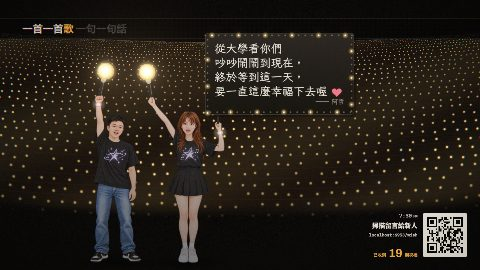
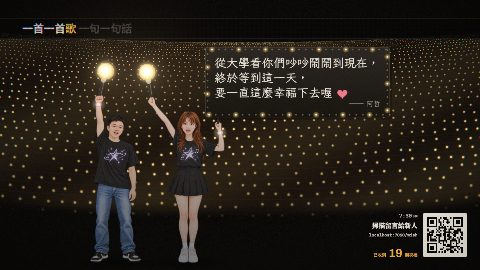
大螢幕：搖滾區觀眾剪影預先畫好（9 ms → 3 ms）；手燈海應援板不再被 LED 帶蓋住；手機燈海的手環光不擋留言

diff --git a/frontend/src/wall/scenes/concert.ts b/frontend/src/wall/scenes/concert.ts
@@ -9,7 +9,7 @@
 //  - 開場：燈還沒亮，兩人只是剪影；第一拍舞台燈亮起、光束掃過來，兩人被照亮；下一拍布條從上緣往下攤開，留言一個字一個字寫上去。
 //  - 布條照「留言尺寸與版面比例標準 v2」：字 40～60、布條最大 700 × 330，寬高跟著留言（兩個人站的距離跟著布條的寬）。沒有留言時寫邀請。
 //  - 其他觀眾是剪影（鏡頭在眼睛的高度：遠近的人頭都在同一條線上，遠的小），舉起來的手燈跟兩人的一起變色、手機亮白光；
-//    每一拍一起點頭，跳的時候一起跳。
+//    每一拍一起點頭、手往另一邊甩，跳的時候一起跳。觀眾在 init 一次畫成貼圖（遠近兩群 × 兩種手勢），每格只貼上去（效能：一格從 8 ms 降到 4 ms 多）。
 //  - 鏡頭：整個窗格慢慢推近兩個人，大鼓時輕輕一頓。右下角 HUD 只有暗暗的地板。
 import * as THREE from 'three';
 import { Scene, shared, type Frame, type Msg, type PostOverrides, type PlateSpecDecl } from '../engine/scene';
@@ -21,7 +21,7 @@ import { lyricAt, layoutLyric, drawLyric, barAfter, beatAfter, msgChars, type Ly
 import { drawNote, type Note } from './_couple';
 import { loadPuppets, hasPuppet, drawCycle, puppetPoint, puppetShadow, puppetLight, jumpArc, breathe, beatKick, noteV2, tightenNote, type PuppetOpts } from './_puppet';
 import { lyricV2 } from './_v2';
-import { glow, lightStick, phoneBack, makeCrowd, drawCrowd, cloth, star, toward, type Fan, type Pt } from './_c9';
+import { glow, lightStick, phoneBack, makeCrowd, bakeCrowd, drawBakedCrowd, cloth, star, toward, type CrowdBake, type Pt } from './_c9';
 
 export const spec: PlateSpecDecl = { group: 'couple', family: 'live', paper: false, energy: [0.45, 1], bars: [4, 8] };
 
@@ -114,7 +114,7 @@ export default class Concert extends Scene {
   note: Note | null = null;
   banner = { x: 0, y: 0, w: 0, h: 0 };
   who: Who[] = [];
-  fans: Fan[] = [];
+  crowd: CrowdBake = { groups: [] };
   jumps: number[] = [];
   tLit = 0;
   tUnfurl = 0;
@@ -158,7 +158,10 @@ export default class Concert extends Scene {
     ];
     this.banner = { x: bx, y: (ha.y + hb.y) / 2 - 8, w: bw, h: bh };
     // 其他觀眾：兩人後面一整片（遠的小），舞台前面也站滿；右下角 HUD 前面只站遠的（身體不會伸進 HUD）
-    this.fans = makeCrowd({ x0: -60, x1: W + 60, eye: EYE, n: 200, kNear: 0.72, kFar: 0.2, seed: 9, lift: 0.55, phone: 0.2, skip: (x, k) => x > 1320 && k > 0.45 });
+    const fans = makeCrowd({ x0: -60, x1: W + 60, eye: EYE, n: 200, kNear: 0.72, kFar: 0.2, seed: 9, lift: 0.55, phone: 0.2, skip: (x, k) => x > 1320 && k > 0.45 });
+    // 觀眾在這裡一次畫好成貼圖（遠近兩群 × 手往左／往右兩種），每格只貼上去（一格省 5 ms，會場的筆電比較弱）。
+    // 身體畫到 EYE + 200 就好：再下面被地上的暗蓋住了。
+    this.crowd = bakeCrowd(fans, { unit: SZ * 0.062, fill: () => rgba('ink'), rim: mixRgba('signal', 'ember', 0.5, 0.3), y0: EYE - 190, y1: EYE + 200, split: 0.46 });
     // LED 的細格線（每格蓋在螢幕上一次）
     const pc = document.createElement('canvas');
     pc.width = pc.height = 4;
@@ -167,6 +170,12 @@ export default class Concert extends Scene {
     px.fillRect(3, 0, 1, 4); px.fillRect(0, 3, 3, 1);
     this.led = c.createPattern(pc, 'repeat');
     this.drawBack();
+  }
+
+  /** 預先畫好的觀眾貼圖在窗格結束時還掉（一張幾 MB）。 */
+  override dispose() {
+    for (const G2 of this.crowd.groups) for (const cv of G2.poses) { cv.width = 0; cv.height = 0; }
+    super.dispose();
   }
 
   /** 不會動的：燈架塔、燈具、舞台、大螢幕的框（畫一次）。 */
@@ -305,17 +314,27 @@ export default class Concert extends Scene {
     fade.addColorStop(1, rgba('ink', 0.97));
     c.fillStyle = fade;
     c.fillRect(0, EYE + 40, W, H - EYE - 40);
+    // 每一拍全場的手往另一邊甩（拍點上換圖，舊的一張淡掉 2 格）；遠近兩群彈的幅度不同，跳的時候一起跳
     const jAll = this.jumpAt(t - 0.03, 30);
-    const fl = drawCrowd(c, this.fans, {
-      unit: SZ * 0.062, fill: () => rgba('ink'), rim: rgba(lit, 0.12 + 0.22 * on),
-      bounce: kick, t, jump: jAll ? -jAll.y : 0, wave: Math.sin(au.beatAt(t) * Math.PI) * 0.22, lit: mixRgba(lit, 'bone', 0.35, 0.3 + 0.6 * on),
-    });
-    c.restore();
-    const boneCol = rgba('bone');
-    for (const l of fl) {
-      if (l.prop === 'stick') glow(g, litCol, l.x, l.y, l.r * (1.15 + 0.3 * kick), (0.4 + 0.35 * hash(l.s * 97)) * on);
-      else glow(g, boneCol, l.x, l.y, l.r * 1.1, 0.3 * on);
+    const beat = au.beatAt(t), bi = Math.floor(beat + 1e-6), since = t - au.timeOfBeat(bi);
+    const pose = ((bi % 2) + 2) % 2, fadeOld = 1 - clamp(since / 0.035);
+    const balls: { x: number; y: number; r: number }[] = [];
+    // destination-over：先畫近的（在上面）、再畫遠的
+    for (const G2 of [...this.crowd.groups].reverse()) {
+      const dy = kick * SZ * 0.062 * G2.k * 0.32 + (jAll ? -jAll.y : 0) * G2.k;
+      drawBakedCrowd(c, G2.poses[pose]!, G2.y0, dy);
+      if (fadeOld > 0) drawBakedCrowd(c, G2.poses[1 - pose]!, G2.y0, dy, fadeOld);
+      for (const l of G2.lights[pose]!) {
+        if (l.prop === 'stick') { balls.push({ x: l.x, y: l.y - dy, r: l.r }); glow(g, litCol, l.x, l.y - dy, l.r * (1.15 + 0.3 * kick), (0.4 + 0.35 * hash(l.s * 97)) * on); }
+        else glow(g, rgba('bone'), l.x, l.y - dy, l.r * 1.1, 0.3 * on);
+      }
     }
+    // 手燈的球（顏色每小節跟著全場換，所以不畫進貼圖）：一個 path 畫完
+    c.fillStyle = mixRgba(lit, 'bone', 0.35, 0.3 + 0.6 * on);
+    c.beginPath();
+    for (const b of balls) { const r = Math.max(1.2, b.r * 0.55); c.moveTo(b.x + r, b.y); c.arc(b.x, b.y, r, 0, Math.PI * 2); }
+    c.fill();
+    c.restore();
     // 台口的腳燈：八分音符一格一格跑
     const step = Math.floor(au.beatAt(t) * 2);
     for (let k = 0, x = TOWER + 40; x < W - 20; k++, x += 46) glow(g, litCol, x, STAGE_Y + 6, 16, ((k + step) % 6 === 0 ? 0.7 : 0.12) * on);

diff --git a/frontend/src/wall/scenes/lightsticks.ts b/frontend/src/wall/scenes/lightsticks.ts
@@ -5,7 +5,7 @@
 //  - 兩個人：兩人都揮手燈（程式畫的，燈色跟著全場），每一拍換一次手（兩張姿勢輪流），兩拍一次小跳；每兩個小節線一起跳起來（跳的那張圖），
 //    最高點剛好在小節線上。孟庭另一隻手舉著應援板。
 //  - **主打留言寫在孟庭舉的應援板上**：黑色的板子、一圈 LED 燈珠（八分音符一格一格跑）、手寫字；第一拍板子從下面舉起來，留言接著一個字一個字出現。
-//    照「留言尺寸與版面比例標準 v2」：字 40～60、板子最大 580 × 350，寬高跟著留言。沒有留言時寫邀請。
+//    照「留言尺寸與版面比例標準 v2」：字 40～60、板子最大 720 × 300（上緣在 LED 帶下面），寬高跟著留言。沒有留言時寫邀請。
 //  - 歌詞跑在看台中間那條環場 LED 帶上（逐字跟唱），在畫面左上，跟應援板分開。
 //  - 鏡頭：整個窗格慢慢往上搖（看台越來越多）、推近一點點；大鼓時輕輕一頓。右下角 HUD 只有暗暗的座位。
 import * as THREE from 'three';
@@ -27,7 +27,8 @@ const SZ = 620;
 /** 兩個人站的位置。 */
 const AX = 470, OX = 760;
 /** 應援板：最大寬高（標準 v2）、寫字的內距、左緣離拳頭多遠、握把多長。 */
-const BOARD = { wMax: 640, hMax: 320, wMin: 360, left: 50, stick: 40, top: 118 };
+/** （上緣 top 在環場 LED 帶的下緣再往下 20 px：板子四邊的燈珠框都看得到；板子因此改成寬一點、矮一點。） */
+const BOARD = { wMax: 720, hMax: 300, wMin: 360, left: 50, stick: 30, top: 196 };
 const PAD = { x: 36, top: 34, bottom: 26 };
 /** 環場 LED 帶（歌詞）：畫面左上。 */
 /** 手燈海（上層看台）：從哪裡到哪裡（y）。 */
@@ -220,7 +221,7 @@ export default class Lightsticks extends Scene {
     // ---- 環場 LED 帶（歌詞），應援板（孟庭舉著）蓋在它前面
     this.drawRibbon(c, t, on);
     const B = pts[1];
-    if (B?.board) this.drawBoard(c, g, t, B.board, kick, on);
+    if (B?.board) this.drawBoard(c, g, t, B.board, B.lift, kick, on);
 
     // ---- 兩個人腳邊：他們那一排的欄杆（很暗，只有上緣一條亮邊），腳下的看台暗一點
     c.save();
@@ -243,13 +244,13 @@ export default class Lightsticks extends Scene {
    * 應援板：握把從孟庭的拳頭往上，黑色的板子、一圈 LED 燈珠（八分音符一格一格往前跑、拍點上全亮一下）、手寫的留言。
    * 第一拍從下面舉起來（先藏在人群後面）；之後跟著拳頭走（跳的時候一起跳）。
    */
-  private drawBoard(c: CanvasRenderingContext2D, g: CanvasRenderingContext2D, t: number, fist: Pt, kick: number, on: number) {
+  private drawBoard(c: CanvasRenderingContext2D, g: CanvasRenderingContext2D, t: number, fist: Pt, lift: number, kick: number, on: number) {
     const n = this.note, D = this.board;
     const rise = ease.outBack(prog(t, this.tBoard, this.tBoard + 0.4));
     if (rise <= 0) return;
     const drop = (1 - rise) * 260;
-    // 板子的上緣不要超過 BOARD.top（跳起來的時候也一樣：握把縮短一點），字才不會碰到上面的 LED 帶與畫面邊緣
-    const x = fist.x + D.dx, y = Math.max(BOARD.top, fist.y + D.dy) + drop;
+    // 板子的上緣不要超過 BOARD.top（在 LED 帶下面），握把不夠長就短一點；跳起來的那一下整塊跟著人往上（板子畫在 LED 帶前面）
+    const x = fist.x + D.dx, y = Math.max(BOARD.top - lift, fist.y + D.dy) + drop;
     c.save();
     c.globalAlpha = clamp(rise * 2);
     // 握把

diff --git a/frontend/src/wall/scenes/_c9.ts b/frontend/src/wall/scenes/_c9.ts
@@ -8,6 +8,7 @@
 // 全部只看傳進來的 t／拍點／種子，確定性沒問題。
 import { clamp, hash, lerp } from '../engine/util';
 import { rgba, mixRgba } from '../engine/palette';
+import { W, SCALE } from '../engine/gl';
 
 type Ctx = CanvasRenderingContext2D;
 export type Pt = { x: number; y: number };
@@ -269,6 +270,44 @@ export function drawCrowd(c: Ctx, fans: readonly Fan[], o: { unit: number; fill:
     }
   }
   return lights;
+}
+
+/**
+ * 一片觀眾「預先畫好」：幾百個剪影每格重畫太貴（concert 一格要 5 ms），所以在 init 畫成貼圖，每格只貼上去、整片跟著拍子動。
+ * 觀眾分成遠、近兩群（各自上下彈的幅度不同，才不會像整張圖在動），每群畫兩種手的姿勢（往左揮、往右揮），每一拍換一次（拍點上甩過去）。
+ * 輪廓光的顏色在這裡就定了（一首歌的色票不會變）；手燈球的顏色會每小節換，所以球不畫進去，回傳每個球的位置讓版面每格自己點。
+ * y0／y1：貼圖涵蓋的範圍（舉起來的手最高到哪、身體畫到哪就被暗部蓋住）；split：遠近兩群的分界（k）。
+ */
+export interface CrowdBake {
+  groups: { k: number; y0: number; poses: [HTMLCanvasElement, HTMLCanvasElement]; lights: [FanLight[], FanLight[]] }[];
+}
+export function bakeCrowd(fans: readonly Fan[], o: { unit: number; fill: (k: number) => string; rim?: string; y0: number; y1: number; split: number; wave?: number; t?: number }): CrowdBake {
+  const x0 = -60, w = W + 120, h = o.y1 - o.y0;
+  const groups: CrowdBake['groups'] = [];
+  for (const [lo, hi] of [[0, o.split], [o.split, 9]] as const) {
+    const list = fans.filter((f) => f.k >= lo && f.k < hi);
+    if (!list.length) continue;
+    const poses: HTMLCanvasElement[] = [], lights: FanLight[][] = [];
+    for (const sgn of [-1, 1]) {
+      const cv = document.createElement('canvas');
+      cv.width = Math.ceil(w * SCALE); cv.height = Math.ceil(h * SCALE);
+      const c = cv.getContext('2d')!;
+      c.setTransform(SCALE, 0, 0, SCALE, -x0 * SCALE, -o.y0 * SCALE);
+      lights.push(drawCrowd(c, list, { unit: o.unit, fill: o.fill, rim: o.rim, bounce: 0, t: o.t ?? 0, wave: sgn * (o.wave ?? 0.22) }));
+      poses.push(cv);
+    }
+    groups.push({ k: list.reduce((a, f) => a + f.k, 0) / list.length, y0: o.y0, poses: poses as [HTMLCanvasElement, HTMLCanvasElement], lights: lights as [FanLight[], FanLight[]] });
+  }
+  return { groups };
+}
+
+/** 把預先畫好的一群觀眾貼到畫面上（x 從 -60 開始、y 從 y0 開始），dy = 這一格整群往上彈多少（px，往上是正的）。 */
+export function drawBakedCrowd(c: Ctx, cv: HTMLCanvasElement, y0: number, dy: number, alpha = 1) {
+  if (alpha <= 0.003) return;
+  const prev = c.globalAlpha;
+  c.globalAlpha = prev * alpha;
+  c.drawImage(cv, -60, y0 - dy, cv.width / SCALE, cv.height / SCALE);
+  c.globalAlpha = prev;
 }
 
 // ---------------------------------------------------------------- 路人剪影
